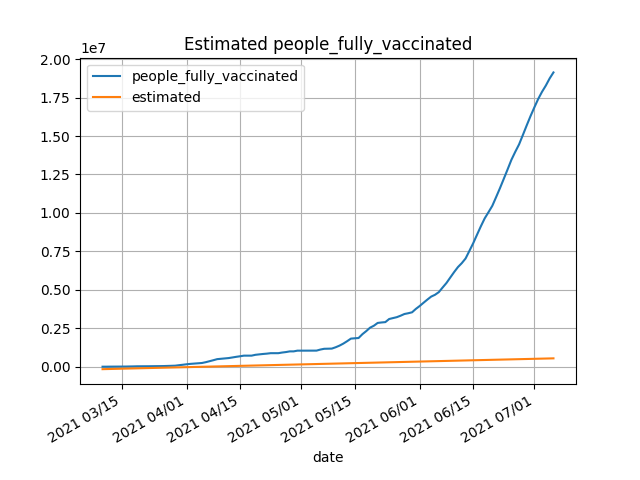
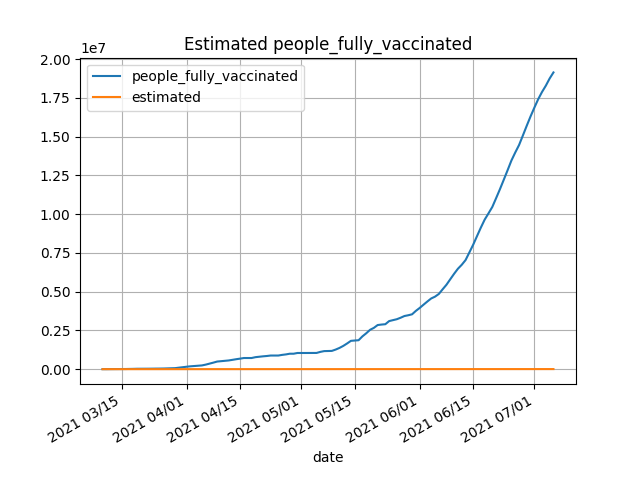
先進国だけにしてら更に悪くなったわ　なんでや

diff --git a/hobby/main.py b/hobby/main.py
@@ -26,6 +26,8 @@ for vaccination in ["total_vaccinations", "people_vaccinated", "people_fully_vac
         america = vaccine.query(f"location==\"{country}\"", engine="numexpr")
         if len(america) == 0:
             continue
+        if (america["human_development_index"]<0.9).all():
+            continue#先進国だけにする
         # print(america)
         # print(type(america))
         america_vaccinations = america.set_index("date")[vaccination]
